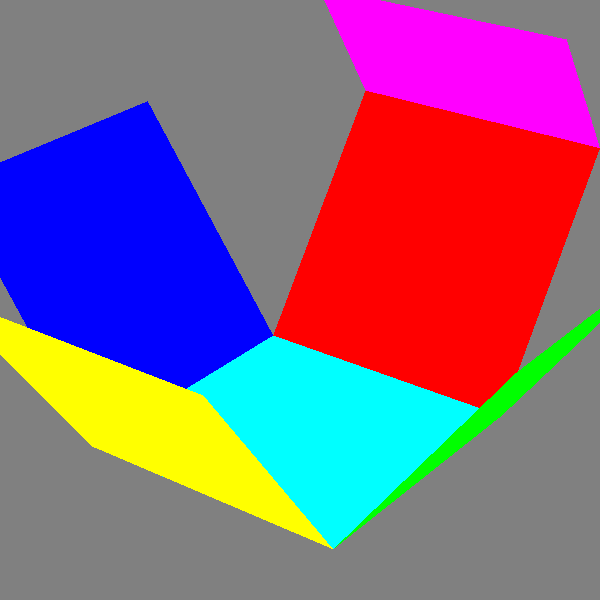
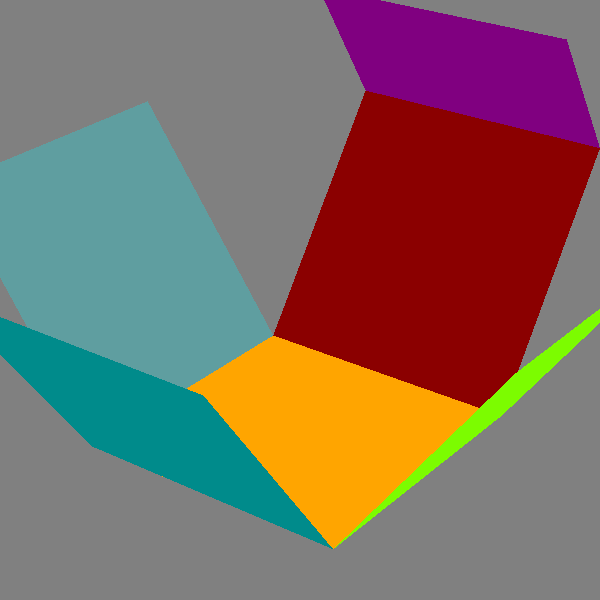
Fix color problem in geometry3d

diff --git a/imagetests/test_drawing3d_images.py b/imagetests/test_drawing3d_images.py
@@ -152,12 +152,12 @@ class TestDrawing3dImages(unittest.TestCase):
             F2 = displace(E2, 2 * s, 2 * (c - 1), 0)
             F3 = displace(E3, 2 * s, 2 * (c - 1), 0)
 
-            create_rect(ctx, A0, A1, A2, A3, Color("cyan"))
-            create_rect(ctx, F0, F1, F2, F3, Color("magenta"))
-            create_rect(ctx, A0, C1, A2, C3, Color("blue"))
-            create_rect(ctx, A0, A1, B2, B3, Color("yellow"))
-            create_rect(ctx, D0, A1, D2, A3, Color("green"))
-            create_rect(ctx, F2, F3, A2, A3, Color("red"))
+            create_rect(ctx, A0, A1, A2, A3, Color("orange"))
+            create_rect(ctx, F0, F1, F2, F3, Color("purple"))
+            create_rect(ctx, A0, C1, A2, C3, Color("cadetblue"))
+            create_rect(ctx, A0, A1, B2, B3, Color("darkcyan"))
+            create_rect(ctx, D0, A1, D2, A3, Color("lawngreen"))
+            create_rect(ctx, F2, F3, A2, A3, Color("darkred"))
 
         def draw(ctx, pixel_width, pixel_height, frame_no, frame_count):
             ctx.enable(moderngl.DEPTH_TEST)

diff --git a/generativepy/geometry3d.py b/generativepy/geometry3d.py
@@ -110,7 +110,7 @@ class Triangle():
 
     def get_flat_color(self, color):
         self.Color = color
-        color_row = np.array([color.as_rgb_bytes()], dtype='f4')
+        color_row = np.array([[color.r, color.g, color.b]], dtype='f4')
         colors = np.repeat(color_row, 3, axis=0)
         vertex_data = np.concatenate([self.vertices, colors], axis=1)
         return vertex_data
@@ -123,7 +123,7 @@ class Triangles():
 
     def get_flat_color(self, color):
         self.Color = color
-        color_row = np.array([color.as_rgb_bytes()], dtype='f4')
+        color_row = np.array([[color.r, color.g, color.b]], dtype='f4')
         colors = np.repeat(color_row, self.vertices.shape[0], axis=0)
         vertex_data = np.concatenate([self.vertices, colors], axis=1)
         return vertex_data
